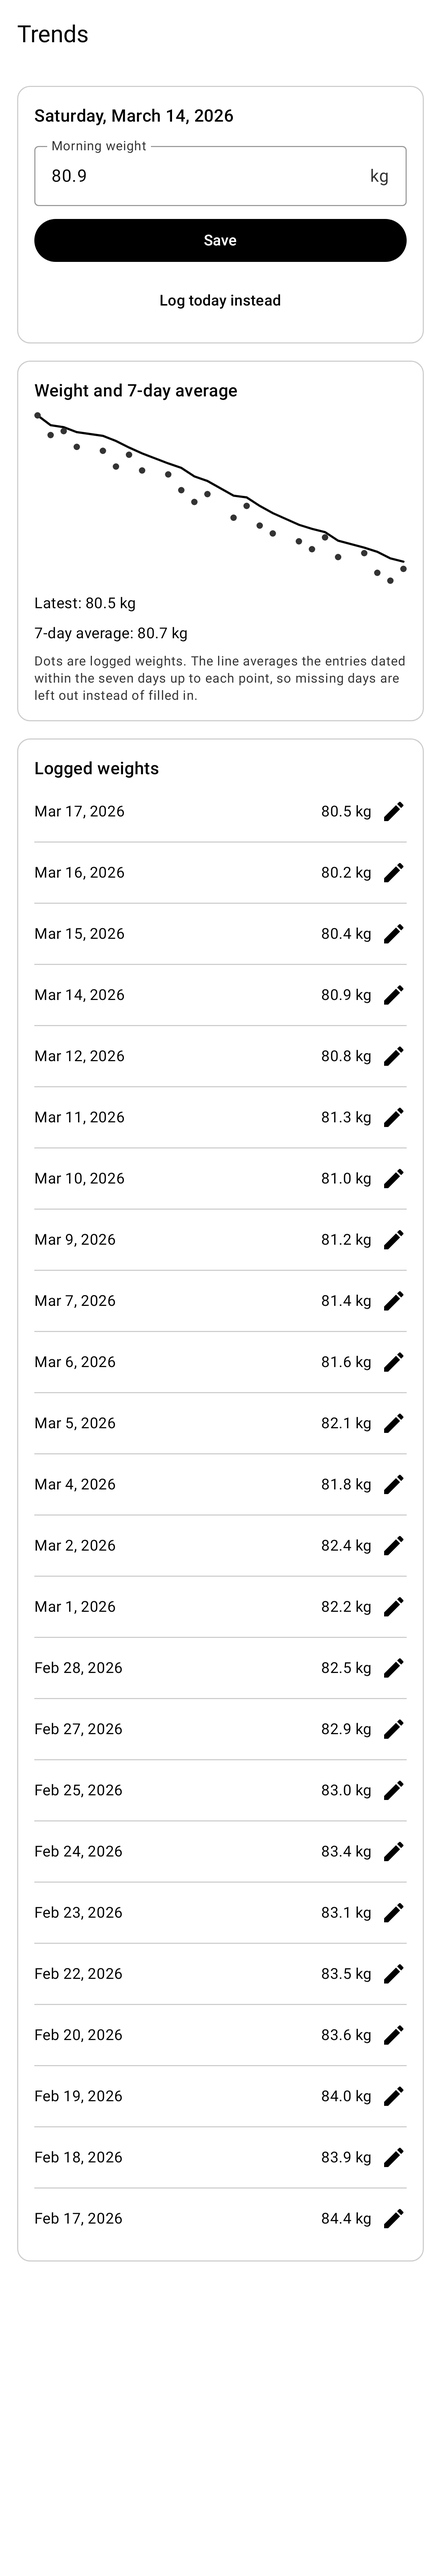
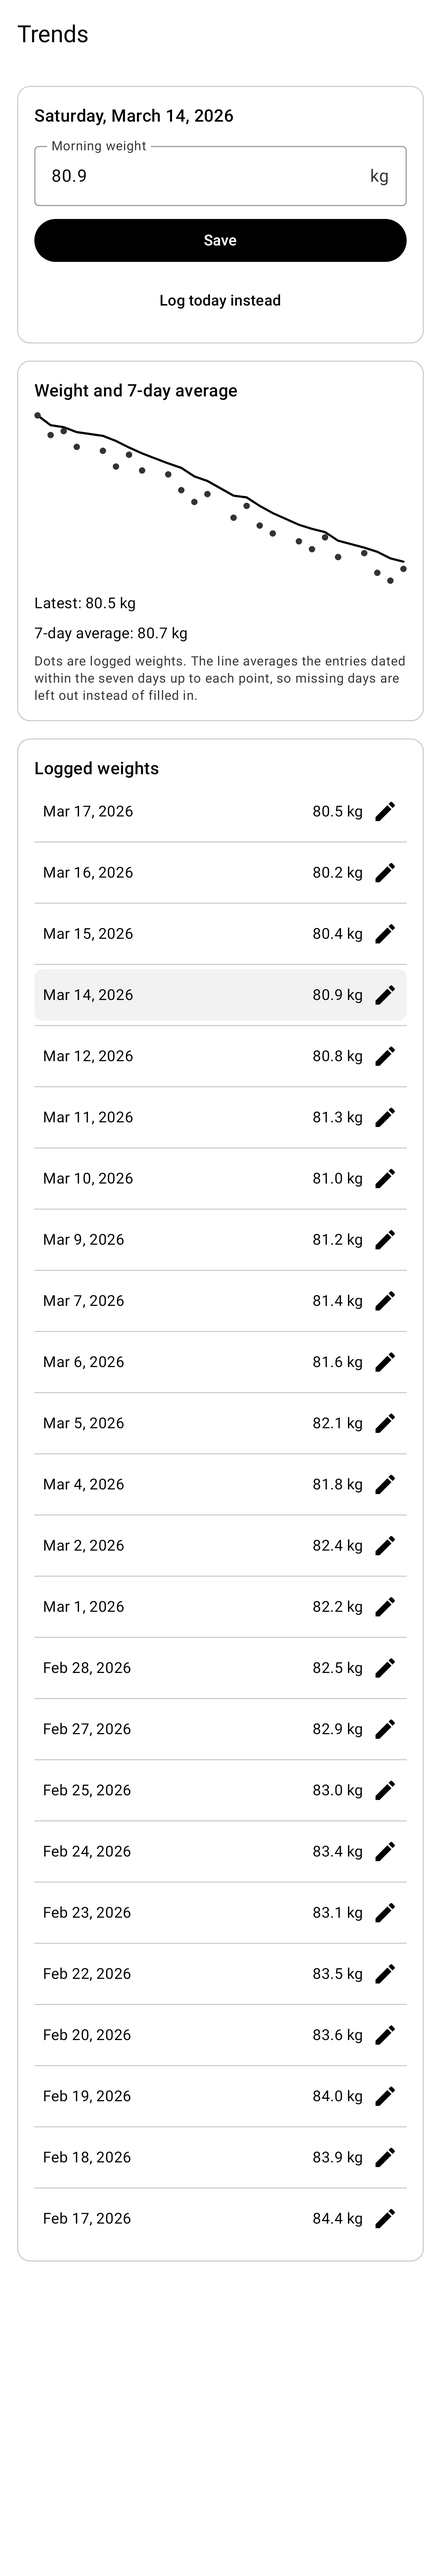
fix(trends): resolve the save date at save time and reach the editor from history
Second review follow-up:

- follow mode recomputes today from the clock inside onSave, so a screen open
  across midnight no longer logs yesterday without a lifecycle event
- a finished save only releases the field when the editor revision is unchanged,
  so switching date mid-save keeps the new draft
- selecting a logged day scrolls the editor back into view and marks the row as
  selected, with a Compose click test
- isEditingToday compares the edited date with today instead of the follow flag

diff --git a/app/src/main/java/app/kcal/feature/trends/TrendsViewModel.kt b/app/src/main/java/app/kcal/feature/trends/TrendsViewModel.kt
@@ -31,9 +31,10 @@ import javax.inject.Inject
  * one save upserts the entry of the edited date.
  *
  * The editor follows the current local date until the user picks a logged day, which is how a
- * wrong historical entry is corrected. An untouched field always mirrors what is stored for the
- * edited date, so it cannot go stale and write back an outdated weight after a change made
- * elsewhere or after midnight.
+ * wrong historical entry is corrected. In follow mode the save date is recomputed from the clock
+ * at save time, so a screen left open across midnight logs the new day rather than yesterday. An
+ * untouched field always mirrors what is stored for the edited date, so it cannot go stale and
+ * write back an outdated weight after a change made elsewhere.
  *
  * Today's target snapshot is not written here: the app shell owns target replacement and
  * reacts to the new latest weight, so a stale calculation cannot overwrite a newer target.
@@ -58,6 +59,9 @@ class TrendsViewModel @Inject constructor(
     /** True once the user typed, which is the only state in which the field is not refilled. */
     private var isDraftEdited = false
 
+    /** Bumped by every editor change, so a finished save can tell whether it saved this draft. */
+    private var draftRevision = 0
+
     private var loadJob: Job? = null
 
     init {
@@ -75,39 +79,51 @@ class TrendsViewModel @Inject constructor(
 
     /** Selects a logged day for correction; the field is refilled from its stored value. */
     fun onEntryClick(localDate: LocalDate) {
-        isDraftEdited = false
-        selectedDate.value = localDate
+        editDate(localDate)
     }
 
-    /** Returns the editor to the current local date. */
+    /** Returns the editor to the current local date and to following further day changes. */
     fun onLogTodayClick() {
-        isDraftEdited = false
-        selectedDate.value = null
+        editDate(null)
     }
 
     fun onWeightChange(text: String) {
         isDraftEdited = true
+        draftRevision++
         _uiState.value = _uiState.value.copy(weightInput = text, inputError = null, saveFailed = false)
+    }
+
+    private fun editDate(localDate: LocalDate?) {
+        isDraftEdited = false
+        draftRevision++
+        selectedDate.value = localDate
     }
 
     /** One save at a time, so an older write can never land after a newer one. */
     fun onSave() {
         val state = _uiState.value
         if (state.isSaving) return
-        val localDate = state.editedDate ?: return
+        val today = timeProvider.today()
+        currentDate.value = today
+        // Follow mode resolves the date from the clock right here: the screen may have been open
+        // across midnight, where no lifecycle event refreshes it. The visible value is what gets
+        // logged, and the previous day keeps its own entry untouched.
+        val localDate = selectedDate.value ?: today
         val kilograms = state.weightInput.toKilograms(state.unitSystem)
+        val dated = state.copy(editedDate = localDate, isEditingToday = localDate == today)
         if (kilograms == null) {
-            _uiState.value = state.copy(inputError = inputError(state), saveFailed = false)
+            _uiState.value = dated.copy(inputError = inputError(state), saveFailed = false)
             return
         }
-        _uiState.value = state.copy(inputError = null, saveFailed = false, isSaving = true)
-        val savedInput = state.weightInput
+        _uiState.value = dated.copy(inputError = null, saveFailed = false, isSaving = true)
+        val savedRevision = draftRevision
         viewModelScope.launch {
             try {
                 val stored = logWeight(WeightEntry(localDate = localDate, kg = kilograms))
                 if (stored) {
-                    // The field tracks storage again, unless the user kept typing meanwhile.
-                    if (_uiState.value.weightInput == savedInput) isDraftEdited = false
+                    // The field tracks storage again, unless the editor moved on meanwhile: that
+                    // draft belongs to another date, unit system or value.
+                    if (draftRevision == savedRevision) isDraftEdited = false
                 } else {
                     _uiState.value = _uiState.value.copy(inputError = ProfileFieldError.OUT_OF_RANGE)
                 }
@@ -135,7 +151,7 @@ class TrendsViewModel @Inject constructor(
                         currentDate,
                         selectedDate,
                     ) { weights, preferences, today, selected ->
-                        Inputs(weights, preferences.unitSystem, selected ?: today, selected == null)
+                        Inputs(weights, preferences.unitSystem, today, selected ?: today)
                     }.collect { inputs -> _uiState.value = reduce(inputs) }
                 } catch (cancellation: CancellationException) {
                     throw cancellation
@@ -160,7 +176,7 @@ class TrendsViewModel @Inject constructor(
             isLoading = false,
             unitSystem = inputs.unitSystem,
             editedDate = inputs.editedDate,
-            isEditingToday = inputs.isEditingToday,
+            isEditingToday = inputs.editedDate == inputs.today,
             weightInput = if (refill) storedKg.formatInput(inputs.unitSystem) else state.weightInput,
             inputError = state.inputError.takeUnless { refill },
             points =
@@ -198,7 +214,7 @@ class TrendsViewModel @Inject constructor(
     private data class Inputs(
         val weights: List<WeightEntry>,
         val unitSystem: UnitSystem,
+        val today: LocalDate,
         val editedDate: LocalDate,
-        val isEditingToday: Boolean,
     )
 }

diff --git a/app/src/test/java/app/kcal/feature/trends/TrendsViewModelTest.kt b/app/src/test/java/app/kcal/feature/trends/TrendsViewModelTest.kt
@@ -5,10 +5,12 @@ import app.kcal.core.common.TimeProvider
 import app.kcal.domain.model.UnitSystem
 import app.kcal.domain.model.UserPreferences
 import app.kcal.domain.model.WeightEntry
+import app.kcal.domain.repository.ProfileRepository
 import app.kcal.domain.usecase.BuildWeightTrend
 import app.kcal.domain.usecase.LogWeight
 import app.kcal.feature.profile.ProfileFieldError
 import app.kcal.testing.FakeProfileRepository
+import kotlinx.coroutines.CompletableDeferred
 import kotlinx.coroutines.Dispatchers
 import kotlinx.coroutines.ExperimentalCoroutinesApi
 import kotlinx.coroutines.flow.toList
@@ -163,6 +165,78 @@ class TrendsViewModelTest {
     }
 
     @Test
+    fun `saving past midnight resolves the day from the clock without a lifecycle event`() = runTest {
+        val repository = repository(today to 81.0)
+        val viewModel = viewModel(repository)
+        val states = collect(viewModel)
+        runCurrent()
+
+        // The screen stayed open across midnight: no ON_RESUME, so only the clock knows.
+        clock.current = Instant.parse("2026-03-16T06:00:00Z")
+        viewModel.onWeightChange("80.6")
+        viewModel.onSave()
+        runCurrent()
+
+        val tomorrow = today.plusDays(1)
+        assertEquals(mapOf(today to 81.0, tomorrow to 80.6), repository.weightsByDate.value.toMap())
+        assertEquals(tomorrow, states.last().editedDate)
+        assertTrue(states.last().isEditingToday)
+        assertEquals("80.6", states.last().weightInput)
+    }
+
+    @Test
+    fun `selecting today's row is not offered a switch to today`() = runTest {
+        val repository = repository(today.minusDays(1) to 83.0, today to 81.0)
+        val viewModel = viewModel(repository)
+        val states = collect(viewModel)
+        runCurrent()
+
+        viewModel.onEntryClick(today)
+        runCurrent()
+
+        assertEquals(today, states.last().editedDate)
+        assertTrue(states.last().isEditingToday)
+
+        viewModel.onEntryClick(today.minusDays(1))
+        runCurrent()
+
+        assertFalse(states.last().isEditingToday)
+    }
+
+    @Test
+    fun `a draft started for another date survives a save that lands afterwards`() = runTest {
+        val past = today.minusDays(3)
+        val repository = repository(past to 90.0, today to 81.0)
+        val gate = CompletableDeferred<Unit>()
+        val viewModel = viewModel(GatedProfileRepository(repository, gate))
+        val states = collect(viewModel)
+        runCurrent()
+
+        viewModel.onWeightChange("81.5")
+        viewModel.onSave()
+        runCurrent()
+        assertTrue(states.last().isSaving)
+
+        // The editor moves to another day while today's write is still in flight, and the new
+        // draft happens to hold the same text as the pending one.
+        viewModel.onEntryClick(past)
+        runCurrent()
+        assertEquals("90.0", states.last().weightInput)
+        viewModel.onWeightChange("81.5")
+
+        gate.complete(Unit)
+        runCurrent()
+
+        assertEquals(past, states.last().editedDate)
+        assertEquals("81.5", states.last().weightInput)
+
+        viewModel.onSave()
+        runCurrent()
+
+        assertEquals(mapOf(past to 81.5, today to 81.5), repository.weightsByDate.value.toMap())
+    }
+
+    @Test
     fun `imperial input is stored in kilograms and displayed in pounds`() = runTest {
         val repository = repository(unitSystem = UnitSystem.IMPERIAL)
         val viewModel = viewModel(repository)
@@ -280,7 +354,7 @@ class TrendsViewModelTest {
         weightsByDate.value = sortedMapOf(*entries)
     }
 
-    private fun viewModel(repository: FakeProfileRepository): TrendsViewModel = TrendsViewModel(
+    private fun viewModel(repository: ProfileRepository): TrendsViewModel = TrendsViewModel(
         profileRepository = repository,
         logWeight = LogWeight(repository),
         buildWeightTrend = BuildWeightTrend(),
@@ -300,5 +374,16 @@ class TrendsViewModelTest {
         override fun withZone(zone: ZoneId): Clock = this
 
         override fun instant(): Instant = current
+    }
+
+    /** Holds a write open, so a save can be observed while the editor keeps being used. */
+    private class GatedProfileRepository(
+        private val delegate: ProfileRepository,
+        private val gate: CompletableDeferred<Unit>,
+    ) : ProfileRepository by delegate {
+        override suspend fun logWeight(entry: WeightEntry) {
+            gate.await()
+            delegate.logWeight(entry)
+        }
     }
 }

diff --git a/app/src/main/java/app/kcal/feature/trends/TrendsScreen.kt b/app/src/main/java/app/kcal/feature/trends/TrendsScreen.kt
@@ -1,5 +1,6 @@
 package app.kcal.feature.trends
 
+import androidx.compose.foundation.background
 import androidx.compose.foundation.clickable
 import androidx.compose.foundation.layout.Arrangement
 import androidx.compose.foundation.layout.Column
@@ -24,11 +25,15 @@ import androidx.compose.material3.Text
 import androidx.compose.material3.TextButton
 import androidx.compose.material3.TopAppBar
 import androidx.compose.runtime.Composable
+import androidx.compose.runtime.LaunchedEffect
 import androidx.compose.runtime.getValue
 import androidx.compose.runtime.remember
 import androidx.compose.ui.Alignment
 import androidx.compose.ui.Modifier
+import androidx.compose.ui.draw.clip
 import androidx.compose.ui.res.stringResource
+import androidx.compose.ui.semantics.selected
+import androidx.compose.ui.semantics.semantics
 import androidx.compose.ui.tooling.preview.Preview
 import androidx.hilt.lifecycle.viewmodel.compose.hiltViewModel
 import androidx.lifecycle.Lifecycle
@@ -110,10 +115,13 @@ private fun TrendsContent(
     onLogTodayClick: () -> Unit,
     modifier: Modifier = Modifier,
 ) {
+    val scrollState = rememberScrollState()
+    // The editor is the first card, so selecting a day far down the list has to bring it back.
+    LaunchedEffect(uiState.editedDate) { scrollState.animateScrollTo(0) }
     Column(
         modifier = modifier
             .fillMaxSize()
-            .verticalScroll(rememberScrollState())
+            .verticalScroll(scrollState)
             .padding(PaddingValues(KcalSpacing.medium)),
         verticalArrangement = Arrangement.spacedBy(KcalSpacing.medium),
     ) {
@@ -223,11 +231,22 @@ private fun LoggedWeightsCard(
             Text(text = stringResource(R.string.trends_entries_title), style = MaterialTheme.typography.titleMedium)
             uiState.points.asReversed().forEachIndexed { index, point ->
                 if (index > 0) HorizontalDivider()
+                val isSelected = point.localDate == uiState.editedDate
                 Row(
                     modifier = Modifier
                         .fillMaxWidth()
                         .heightIn(min = KcalSpacing.minTouchTarget)
-                        .clickable(onClickLabel = editLabel) { onEntryClick(point.localDate) },
+                        .clip(MaterialTheme.shapes.small)
+                        .then(
+                            if (isSelected) {
+                                Modifier.background(MaterialTheme.colorScheme.surfaceVariant)
+                            } else {
+                                Modifier
+                            },
+                        )
+                        .clickable(onClickLabel = editLabel) { onEntryClick(point.localDate) }
+                        .semantics { selected = isSelected }
+                        .padding(horizontal = KcalSpacing.small),
                     verticalAlignment = Alignment.CenterVertically,
                     horizontalArrangement = Arrangement.spacedBy(KcalSpacing.small),
                 ) {

diff --git a/app/src/test/java/app/kcal/feature/trends/TrendsScreenTest.kt b/app/src/test/java/app/kcal/feature/trends/TrendsScreenTest.kt
@@ -1,0 +1,72 @@
+package app.kcal.feature.trends
+
+import androidx.activity.ComponentActivity
+import androidx.compose.runtime.getValue
+import androidx.compose.runtime.mutableStateOf
+import androidx.compose.runtime.setValue
+import androidx.compose.ui.test.assertIsDisplayed
+import androidx.compose.ui.test.assertIsSelected
+import androidx.compose.ui.test.hasText
+import androidx.compose.ui.test.junit4.v2.createAndroidComposeRule
+import androidx.compose.ui.test.onNodeWithText
+import androidx.compose.ui.test.performClick
+import androidx.compose.ui.test.performScrollTo
+import androidx.test.ext.junit.runners.AndroidJUnit4
+import app.kcal.R
+import app.kcal.core.designsystem.KcalTheme
+import app.kcal.domain.model.ThemeMode
+import org.junit.Rule
+import org.junit.Test
+import org.junit.runner.RunWith
+import org.robolectric.annotation.Config
+import java.time.LocalDate
+import java.time.format.DateTimeFormatter
+import java.time.format.FormatStyle
+import java.util.Locale
+import kotlin.test.assertEquals
+
+@RunWith(AndroidJUnit4::class)
+@Config(qualifiers = "w411dp-h800dp-xxhdpi")
+class TrendsScreenTest {
+
+    @get:Rule
+    val composeRule = createAndroidComposeRule<ComponentActivity>()
+
+    /** A logged day is edited by tapping its row, which must reach the editor at the top. */
+    @Test
+    fun `tapping a logged day selects it and brings the editor into view`() {
+        var uiState by mutableStateOf(trendsManyPointsPreviewState)
+        val clicked = mutableListOf<LocalDate>()
+        composeRule.setContent {
+            KcalTheme(themeMode = ThemeMode.WHITE) {
+                TrendsScreen(
+                    uiState = uiState,
+                    onWeightChange = {},
+                    onSave = {},
+                    onEntryClick = { date ->
+                        clicked += date
+                        uiState = uiState.copy(editedDate = date, isEditingToday = false)
+                    },
+                    onLogTodayClick = {},
+                    onRetry = {},
+                )
+            }
+        }
+        val target = uiState.points.first().localDate
+
+        composeRule.onNodeWithText(mediumDate(target)).performScrollTo().performClick()
+
+        assertEquals(listOf(target), clicked)
+        // The editor scrolled back into view and the selected row is marked as such.
+        composeRule.onNodeWithText(fullDate(target)).assertIsDisplayed()
+        composeRule.onNodeWithText(composeRule.activity.getString(R.string.trends_log_today)).assertIsDisplayed()
+        composeRule.onNode(hasText(mediumDate(target))).assertIsSelected()
+    }
+
+    private fun mediumDate(localDate: LocalDate): String = format(FormatStyle.MEDIUM, localDate)
+
+    private fun fullDate(localDate: LocalDate): String = format(FormatStyle.FULL, localDate)
+
+    private fun format(style: FormatStyle, localDate: LocalDate): String =
+        DateTimeFormatter.ofLocalizedDate(style).withLocale(Locale.forLanguageTag("en-US")).format(localDate)
+}

diff --git a/docs/implementation-plan.md b/docs/implementation-plan.md
@@ -437,7 +437,8 @@ endpoint, quota policy, and key exist. This repository does not implement that b
   and lists every logged day, and selecting a day edits that entry, so a wrong historical
   weight can be corrected. Deleting a weight entry is not offered.
 - Keep the untouched input field synchronized with the stored value for the edited date, so a
-  change made elsewhere or a day rollover cannot be written back.
+  change made elsewhere cannot be written back, and resolve the save date from the clock while
+  the editor follows today, so a screen left open across midnight logs the new day.
 - Guard the persisted-weight invariant in `domain/usecase/LogWeight`, not in the screen.
 - Render raw weight points.
 - Implement the agreed calendar-window trend:
@@ -456,8 +457,10 @@ Do not interpolate missing dates and do not substitute the last seven measuremen
 - Calendar gaps.
 - Month/year transitions.
 - One entry per day and same-day replacement.
-- Past-entry correction, day rollover, and a weight changed elsewhere.
-- Serialized saves.
+- Past-entry correction, day rollover with and without a lifecycle event, and a weight changed
+  elsewhere.
+- Serialized saves, and a draft started for another date while a save is in flight.
+- A real click on a history row reaching the editor.
 - Rejected non-finite/non-positive weights.
 - Unit conversion.
 - Trend values and chart ViewModel states.
